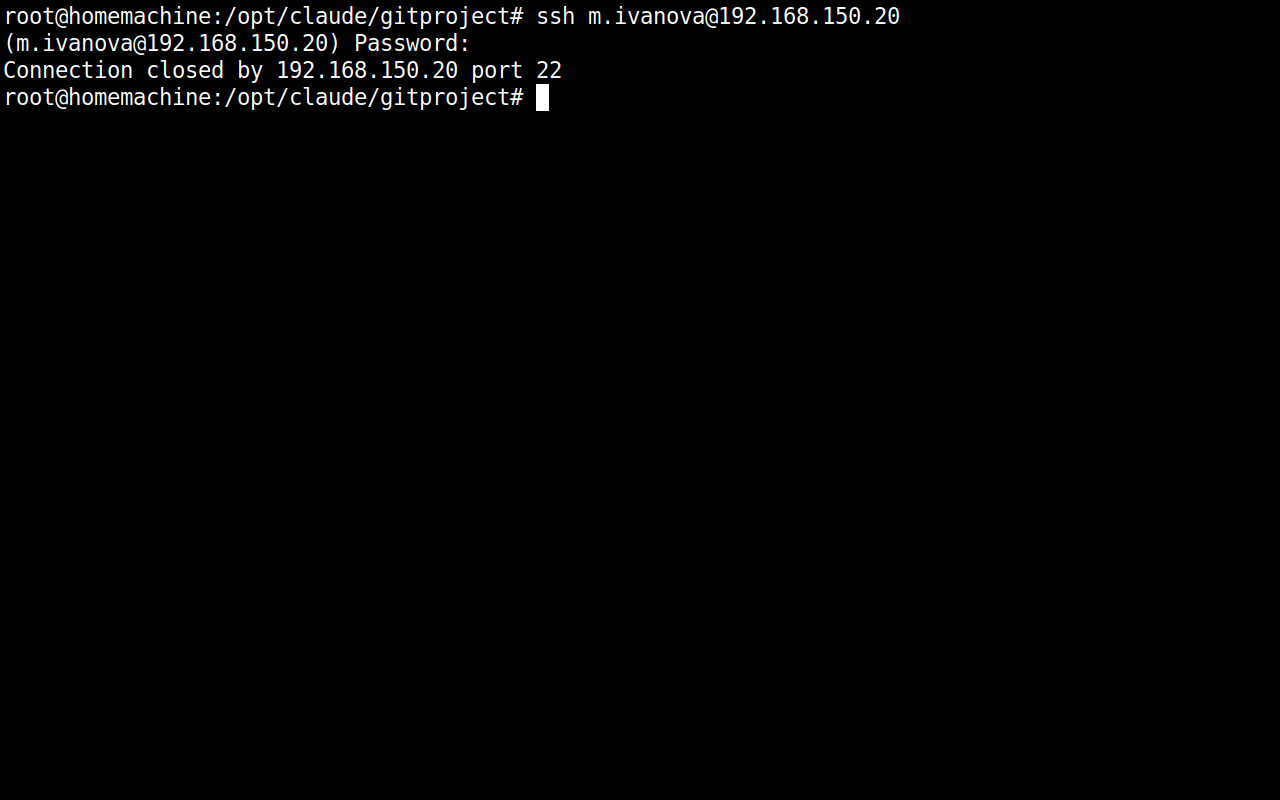
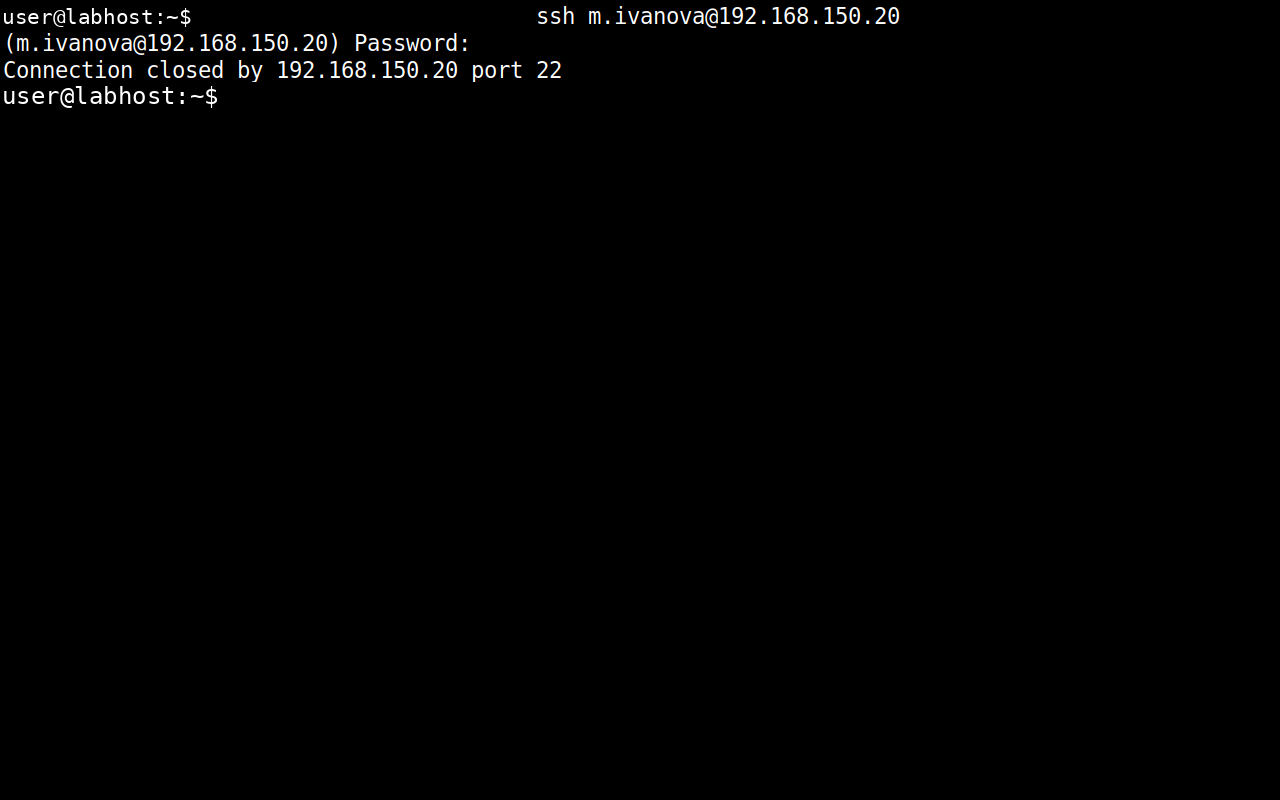
Translate deployment log to English, redact host prompt in terminal screenshots
Deployment log section was left in Russian while the rest of the README
is English -- now fully translated, keeping literal quotes of the actual
Russian product UI/messages where they're quoted verbatim.

Terminal screenshots (id+klist, sudo, login-denied) showed the real host
shell prompt (user/hostname/working directory) before the ssh command --
replaced that line with a generic user@labhost:~$ placeholder, redrawn
in the same monospace font, leaving the actual session content untouched.

Changed region(s): [[0.0, 0.0938, 0.4375, 0.1562], [0.0, 0.0, 0.4062, 0.0312]]

diff --git a/README.md b/README.md
@@ -170,149 +170,159 @@ an honest log of what broke along the way and how it got fixed (below).
 
 ---
 
-# Журнал развёртывания
+# Deployment log
 
-Подробные заметки о том, как этот стенд разворачивался на реальных VM: preseed
-несколько раз ломался на диалогах, которых нет в стандартном Debian preseed, сама
-утилита `aldpro-server-install` падала пять раз подряд на разных шагах из-за
-внутренней гонки, а графический `aldpro-client-installer` оказался неработоспособен
-без реального экрана. Ничего из этого не было видно при простом чтении документации —
-только при реальном запуске.
+Detailed notes on standing this up on real VMs: preseed broke on dialogs that don't
+exist in a standard Debian preseed several times over, `aldpro-server-install` itself
+failed five times in a row at different steps because of an internal race condition,
+and the graphical `aldpro-client-installer` turned out to be unusable without a real
+screen. None of this was visible from just reading the documentation — only from
+actually running it.
 
-## 1. Preseed-автоустановка Astra Linux SE 1.7.7 — восемь багов подряд
+## 1. Preseed-based unattended install of Astra Linux SE 1.7.7 — eight bugs in a row
 
-Инсталлятор Astra — классический debian-installer (isolinux + `install.amd/{vmlinuz,
-initrd.gz}`, пункт меню `Automated install` с `auto=true priority=critical`). Пример
-preseed из документации ALD Pro (Часть 2, «Roles and site services → Automation → Boot
-profiles → Preseed») рабочий как база, но рассчитан на PXE-сценарий с полностью сетевым
-debootstrap. У нас — статический IP без DHCP на момент первой загрузки, плюс
-подключённый ISO. Вот все восемь багов, каждый следующий обнаруживался только после
-фикса предыдущего:
+Astra's installer is a classic debian-installer (isolinux + `install.amd/{vmlinuz,
+initrd.gz}`, an `Automated install` menu entry with `auto=true priority=critical`).
+The preseed example in the ALD Pro documentation (Part 2, "Roles and site services →
+Automation → Boot profiles → Preseed") works as a base, but it's built for a PXE
+scenario with a fully network-based debootstrap. Here I had a static IP with no DHCP
+at first boot, plus an attached ISO. Here are all eight bugs, each one only surfacing
+once the previous one was fixed:
 
-1. **`astra-license/license`** — лицензионное соглашение Astra Linux. Ключа в обычном
-   Debian preseed нет — Astra-специфичный, нашёл разбором .udeb-пакета (`ar x
-   astra-license_*.udeb`, файл `debian/templates`).
-2. **`cdrom-detect/load_media`** — "No common CD-ROM drive was detected". Возникло
-   потому, что `--location` в virt-install указывал на смонтированную директорию, а не
-   на файл .iso — в этом случае virt-install не подключает ISO как виртуальный CD.
-   Фикс: `--location <path>.iso` вместо смонтированной директории.
-3. **Диалог выбора языка** — всплывает раньше, чем скачивается сетевой preseed.cfg
-   (сеть на этот момент ещё не поднята). Фикс — `locale=en_US.UTF-8` прямо в kernel
-   cmdline (`--extra-args`), а не в preseed-файле.
-4. **`debootstrap` по сети падает с exit 1** через `repository-base`. Переключился на
-   официально документированный офлайн-путь: раз ISO уже физически подключен, базовая
-   система ставится прямо с CD (`apt-setup/cdrom/set-first boolean true`), а сетевые
-   репозитории ALD Pro подключаются уже после загрузки ОС через SSH.
-5. **`apt-setup/cdrom/set-double`** (default `true`, не был задан явно) — после
-   успешного debootstrap с CD инсталлятор переспрашивает "Scan another CD or DVD?" и
-   зависает. Ключ нашёл разбором `apt-cdrom-setup_*.udeb`.
-6. **GRUB-пароль** — забытый в первой версии preseed `grub-installer/password`.
-7. **`late_command` не может использовать `wget`** — в базовой системе, установленной
-   только с CD (без сетевого debootstrap), `wget` не входит в набор пакетов по
-   умолчанию. Установщик показывал общую ошибку "Failed to run preseeded command" без
-   объяснения причины. Фикс — переписать все postinstall-шаги (SSH-доступ, `/etc/hosts`,
-   отключение NetworkManager) через `in-target bash -c '...'` без внешних зависимостей.
-8. **Разовый глюк чтения виртуального CD** ("Debootstrap warning: ... was corrupt").
-   Проверка md5sum файла на самом ISO подтвердила, что файл не повреждён (совпадает с
-   `md5sum.txt` на диске) — это транзиентный сбой эмуляции IDE CD-ROM в QEMU, не
-   проблема дистрибутива. Serial-консоль была настроена только на запись в файл (без
-   интерактивного pty), поэтому нажать "Continue" было нечем — просто повторил
-   установку с нуля, глюк не воспроизвёлся.
+1. **`astra-license/license`** — the Astra Linux end-user license agreement. There's
+   no key for this in a normal Debian preseed — it's Astra-specific. Found it by
+   unpacking the .udeb package (`ar x astra-license_*.udeb`, the `debian/templates`
+   file).
+2. **`cdrom-detect/load_media`** — "No common CD-ROM drive was detected." This
+   happened because `--location` in virt-install pointed at a mounted directory
+   instead of the .iso file itself — in that case virt-install doesn't attach the ISO
+   as a virtual CD at all. Fix: `--location <path>.iso` instead of a mounted
+   directory.
+3. **The language-selection dialog** — pops up before the network preseed.cfg is even
+   fetched (the network isn't up yet at that point). Fix: `locale=en_US.UTF-8` right
+   on the kernel cmdline (`--extra-args`), not inside the preseed file.
+4. **`debootstrap` over the network fails with exit 1** against `repository-base`.
+   Switched to the officially documented offline path instead: since the ISO is
+   already physically attached, the base system installs straight from the CD
+   (`apt-setup/cdrom/set-first boolean true`), and the ALD Pro network repositories
+   get added after the OS boots, over SSH.
+5. **`apt-setup/cdrom/set-double`** (defaults to `true`, and I hadn't set it
+   explicitly) — after a successful CD-based debootstrap, the installer asks "Scan
+   another CD or DVD?" and hangs there. Found the key by unpacking
+   `apt-cdrom-setup_*.udeb`.
+6. **GRUB password** — forgot `grub-installer/password` in the first version of the
+   preseed.
+7. **`late_command` can't use `wget`** — on a base system installed only from CD
+   (no network debootstrap), `wget` isn't part of the default package set. The
+   installer just showed a generic "Failed to run preseeded command" with no
+   explanation. Fix: rewrite every postinstall step (SSH access, `/etc/hosts`,
+   disabling NetworkManager) as `in-target bash -c '...'` with no external
+   dependencies.
+8. **A one-off virtual CD read glitch** ("Debootstrap warning: ... was corrupt").
+   Checking the file's md5sum against the ISO's own `md5sum.txt` confirmed the file
+   itself wasn't corrupt — this was a transient IDE CD-ROM emulation hiccup in QEMU,
+   not a problem with the distro. The serial console was configured write-only (no
+   interactive pty), so there was nothing to click "Continue" with — just reran the
+   install from scratch, and the glitch didn't come back.
 
-Отдельно: `late_command` пытался вызвать `in-target hostnamectl set-hostname
-ald-dc.lab.local` — команда падала, потому что `in-target` это просто chroot, а
-`hostnamectl` обращается к `systemd-hostnamed` через D-Bus, которого в chroot нет.
-Фикс — писать `/etc/hostname` напрямую (`printf ... > /etc/hostname`).
+Separately: `late_command` tried to call `in-target hostnamectl set-hostname
+ald-dc.lab.local` — that failed, because `in-target` is just a chroot, and
+`hostnamectl` talks to `systemd-hostnamed` over D-Bus, which doesn't exist in a
+chroot. Fix: write `/etc/hostname` directly (`printf ... > /etc/hostname`).
 
-Диагностика "молча работает" vs "реально зависло" на текстовом serial-выводе
-инсталлятора (ANSI/VT100 escape-последовательности в файле лога) — рабочий способ
-восстановить текущий экран:
+Telling "quietly working" apart from "actually hung" on the installer's raw serial
+text output (ANSI/VT100 escape sequences dumped into a log file) — the way that
+actually works is to replay the log through a real terminal emulator:
 
 ```bash
 tmux new-session -d -s astra -x 80 -y 24 "cat ald-dc-console.log; sleep 3600"
 tmux capture-pane -t astra -p
 ```
 
-## 2. Гонка внутри `aldpro-server-install` — систематическая проблема продукта
+## 2. A race condition inside `aldpro-server-install` — a systemic product issue
 
-После чистой установки ОС, поднятия уровня защищённости до "Смоленск" и подключения
-репозиториев команда `aldpro-server-install -d lab.local -n ald-dc --ip
-192.168.150.10 --setup_gc --setup_syncer --no-reboot` **падала пять раз подряд**,
-каждый раз на другом шаге, с одной и той же ошибкой:
+After a clean OS install, raising the security level to "Смоленск" (max), and wiring
+up the repositories, the command `aldpro-server-install -d lab.local -n ald-dc --ip
+192.168.150.10 --setup_gc --setup_syncer --no-reboot` **failed five times in a row**,
+each time at a different step, with the same error:
 
 ```
 Exception: Произошла ошибка. Превышено максимальное количество попыток.
 Пожалуйста, попробуйте выполнить команду повторно.
 ```
+("An error occurred. Maximum number of attempts exceeded. Please retry the command.")
 
-Разброс: `saltutil.sync_all`, `grains.set is_first_dc`, зависание на `grains.delkey
-is_first_dc` (35+ минут на 100% CPU — реальный hang, вручную та же команда занимает
-1-2 секунды), `state.apply utils.dc_passwords`. При этом **каждый** упавший шаг,
-повторённый вручную сразу после сбоя, отрабатывал за секунды без единой ошибки. Вывод:
-дело не в конкретном шаге, а в том, что `aldpro-server-install` дёргает
-`aldpro-salt-call` подряд без паузы, и standalone salt-minion не всегда успевает
-освободить локальную блокировку между вызовами. Собственный обработчик ошибок скрипта
-тоже может зависнуть — при попытке залогировать сбой в LDAP через `send_log_to_ldap`
-он стучится в SSSD/D-Bus, которого на этом этапе установки ещё физически нет.
+The failures landed on `saltutil.sync_all`, `grains.set is_first_dc`, a hang on
+`grains.delkey is_first_dc` (35+ minutes at 100% CPU — a genuine hang, not just slow:
+the same command runs in 1-2 seconds by hand), and `state.apply utils.dc_passwords`.
+And **every** failed step, rerun by hand right after the failure, completed in
+seconds with no error at all. Conclusion: it's not any one step — `aldpro-server-install`
+fires `aldpro-salt-call` invocations back to back with no pause, and the standalone
+salt-minion doesn't always release its local lock in time between calls. Even the
+script's own error handler can hang: when it tries to log the failure to LDAP via
+`send_log_to_ldap`, it reaches for SSSD/D-Bus, which doesn't physically exist yet at
+this stage of the install.
 
-Шестая попытка закончилась настоящим **segfault** интерпретатора Python 3.7 сразу в
-нескольких celery-воркерах (`dmesg`: `segfault at ... in python3.7`) — не OOM
-(свободной памяти хватало), а нехватка ядер под параллельной нагрузкой на 2 vCPU.
-**Увеличение до 4 vCPU сняло проблему полностью** — седьмая попытка отработала от
-начала до конца без единого сбоя (~10 минут: FreeIPA/Kerberos/DNS, портал ALD Pro,
-Global Catalog).
+The sixth attempt ended in an actual Python 3.7 interpreter **segfault**, hitting
+several celery workers at once (`dmesg`: `segfault at ... in python3.7`) — not OOM
+(there was plenty of free memory), but not enough cores under parallel load on 2
+vCPUs. **Bumping the DC to 4 vCPUs fixed it completely** — the seventh attempt ran
+start to finish with zero failures (~10 minutes: FreeIPA/Kerberos/DNS, the ALD Pro
+portal, Global Catalog).
 
-Побочная находка: `aldproctl status` падал с `IndexError`, потому что
-`socket.gethostname()` (сырой `hostname`, не `hostname -f`) возвращал только короткое
-имя. Preseed через `netcfg/get_hostname` + `netcfg/get_domain` пишет в `/etc/hostname`
-только короткое имя — а документация ALD Pro (2.1.1.3) прямо требует `hostnamectl
-set-hostname <FQDN>`. Фикс — писать полное имя в `/etc/hostname` напрямую.
+Side finding: `aldproctl status` crashed with an `IndexError`, because
+`socket.gethostname()` (the raw `hostname`, not `hostname -f`) only returned the
+short name. Preseed via `netcfg/get_hostname` + `netcfg/get_domain` only writes the
+short name into `/etc/hostname` — but the ALD Pro documentation (2.1.1.3) explicitly
+requires `hostnamectl set-hostname <FQDN>`. Fix: write the full FQDN into
+`/etc/hostname` directly.
 
-**Рабочая тактика, которая в итоге всё спасла:** снять offline-снапшот диска сразу
-после установки ОС + подключения репозиториев + установки пакетов ALD Pro (до
-`aldpro-server-install`), и просто откатываться на него при сбое вместо ручной чистки
-состояния на лету:
+**The tactic that actually saved the day:** take an offline disk snapshot right after
+the OS install, wiring up the repositories, and installing the ALD Pro packages
+(before `aldpro-server-install`), and just roll back to it on failure instead of
+manually cleaning up state on the fly:
 
 ```bash
 virsh snapshot-create-as ald-dc pre-server-install --disk-only --atomic
-# при сбое — откат и повтор:
+# on failure -- roll back and retry:
 virsh destroy ald-dc
 rm /var/lib/libvirt/images/ald-dc.pre-server-install
 qemu-img create -f qcow2 -b ald-dc.qcow2 -F qcow2 ald-dc.pre-server-install
 virsh start ald-dc
 ```
 
-## 3. Графический `aldpro-client-installer` не работает без настоящего экрана
+## 3. The graphical `aldpro-client-installer` doesn't work without a real screen
 
-Документация приводит его как "способ через командную строку", но бинарник — это
-PyQt5/PyInstaller-приложение, которому *всегда* нужна Qt-платформа:
+The documentation presents it as a "command-line method," but the binary is a
+PyQt5/PyInstaller app that *always* needs a Qt platform:
 
-- Без `DISPLAY` и без `--gui` падает: `qt.qpa.plugin: Could not load the Qt platform
-  plugin "xcb"`.
-- С `QT_QPA_PLATFORM=offscreen` — не падает, но виснет насмерть: единственный открытый
-  файловый дескриптор процесса — `eventfd` (Qt-эвентлуп), ни одного сетевого
-  соединения к контроллеру домена так и не открывается.
-- С реальным `Xvfb` — на экране просто пустая форма: поля "Наименование домена",
-  "Учётная запись", "Пароль" не заполняются флагами `--domain/--account/--password`
-  вообще. Значения командной строки в этой сборке 3.0.0 в GUI-режим не пробрасываются.
+- Without `DISPLAY` and without `--gui` it just crashes: `qt.qpa.plugin: Could not
+  load the Qt platform plugin "xcb"`.
+- With `QT_QPA_PLATFORM=offscreen` it doesn't crash, but it hangs dead: the process's
+  only open file descriptor is an `eventfd` (the Qt event loop) — it never opens a
+  single network connection to the domain controller.
+- With a real `Xvfb` — the screen just shows an empty form: the "Domain name",
+  "Account", and "Password" fields never get filled in from
+  `--domain`/`--account`/`--password`. Command-line values simply aren't wired into
+  GUI mode in this 3.0.0 build.
 
-Решение — обойти GUI-обёртку и использовать нижележащий CLI напрямую,
-`astra-freeipa-client` (тот же инструмент, которым документация описывает вывод
-компьютера из домена через `-U`):
+The fix is to skip the GUI wrapper entirely and use the underlying CLI directly,
+`astra-freeipa-client` (the same tool the documentation uses for un-enrolling a
+computer, via `-U`):
 
 ```bash
-sudo astra-freeipa-client -d lab.local -u admin -p 'ПАРОЛЬ' -y
+sudo astra-freeipa-client -d lab.local -u admin -p 'PASSWORD' -y
 ```
 
-Отработал с первого раза: получил CA-сертификат, зарегистрировал SSH-ключи хоста,
-настроил SSSD/Kerberos/PAM — `The ipa-client-install command was successful`.
+Worked on the first try: got the CA certificate, registered the host's SSH keys, and
+configured SSSD/Kerberos/PAM — `The ipa-client-install command was successful`.
 
-## 4. Баг `ipa hbactest` в ALD Pro 3.0.0 на обычных локальных пользователях
+## 4. `ipa hbactest` is broken in ALD Pro 3.0.0 for plain local users
 
-После создания HBAC-правила и отключения дефолтного `allow_all` (иначе правило ни на
-что не влияет) команда `ipa hbactest --user=i.sredoevich --host=... --service=sshd`
-вернула `ipa: ERROR: an internal error has occurred`. В `/var/log/apache2/error.log`
-нашёлся traceback:
+After creating an HBAC rule and disabling the default `allow_all` (otherwise the rule
+has no effect at all), `ipa hbactest --user=i.sredoevich --host=... --service=sshd`
+came back with `ipa: ERROR: an internal error has occurred`. The full traceback showed
+up in `/var/log/apache2/error.log`:
 
 ```
 File ".../ipaserver/plugins/hbactest.py", line 394, in execute
@@ -322,29 +332,30 @@ File ".../ipaserver/dcerpc.py", line 89, in is_sid_valid
 ValueError: Unable to parse string: 'i.sredoevich'
 ```
 
-`hbactest` в этой сборке безусловно пытается распарсить пользователя как Windows SID
-(код для доверенных доменов MS AD) и падает вместо того, чтобы сначала проверить,
-похожа ли строка на SID вообще. Обходной путь — не полагаться на symulation-тест, а
-доказывать allow/deny реальными попытками входа (что и так требовалось).
+`hbactest` in this build unconditionally tries to parse the given user as a Windows
+SID (code meant for MS AD trust scenarios) and crashes instead of first checking
+whether the string even looks like a SID. The workaround is to not rely on the
+simulation test at all, and instead prove allow/deny with real login attempts (which
+was already required anyway).
 
-## 5. HBAC разрешает вход, но не `sudo` — это два разных сервиса
+## 5. HBAC allows login but not `sudo` — they're two separate PAM services
 
-После настройки sudo-правила `sudo -l` для разрешённого пользователя падал с `sudo:
-PAM account management error: Permission denied` — не отказ по самому sudo-правилу, а
-блокировка HBAC на уровне PAM: правило `allow_developers` разрешало сервисы
-`sshd`/`login`, но не `sudo`. У SSSD HBAC гейтит *каждый* PAM-сервис отдельно,
-включая `sudo`. Фикс:
+After setting up the sudo rule, `sudo -l` for an allowed user failed with `sudo: PAM
+account management error: Permission denied` — not a denial from the sudo rule
+itself, but an HBAC block at the PAM layer: the `allow_developers` rule allowed the
+`sshd`/`login` services, but not `sudo`. SSSD's HBAC gates *every* PAM service
+separately, `sudo` included. Fix:
 
 ```bash
 ipa hbacrule-add-service allow_developers --hbacsvcs=sudo
 ipa hbacrule-add-service allow_developers --hbacsvcs=sudo-i
 ```
 
-После этого `sudo -l` показал реальное правило (`(root) ALL`), а `sudo whoami` вернул
+After that, `sudo -l` showed the real rule (`(root) ALL`), and `sudo whoami` returned
 `root`.
 
-## Итог
+## Bottom line
 
-Полный список того, что в итоге доказано вживую, — в разделе
-[«Proof, not just claims»](#proof-not-just-claims) выше. Каждая строчка там — это
-реальная команда, выполненная на реальной паре VM, а не текст из документации.
+The full list of what's actually proven live is in the ["Proof, not just claims"](#proof-not-just-claims)
+section above. Every line there is a real command run on a real pair of VMs, not text
+copied from the documentation.
